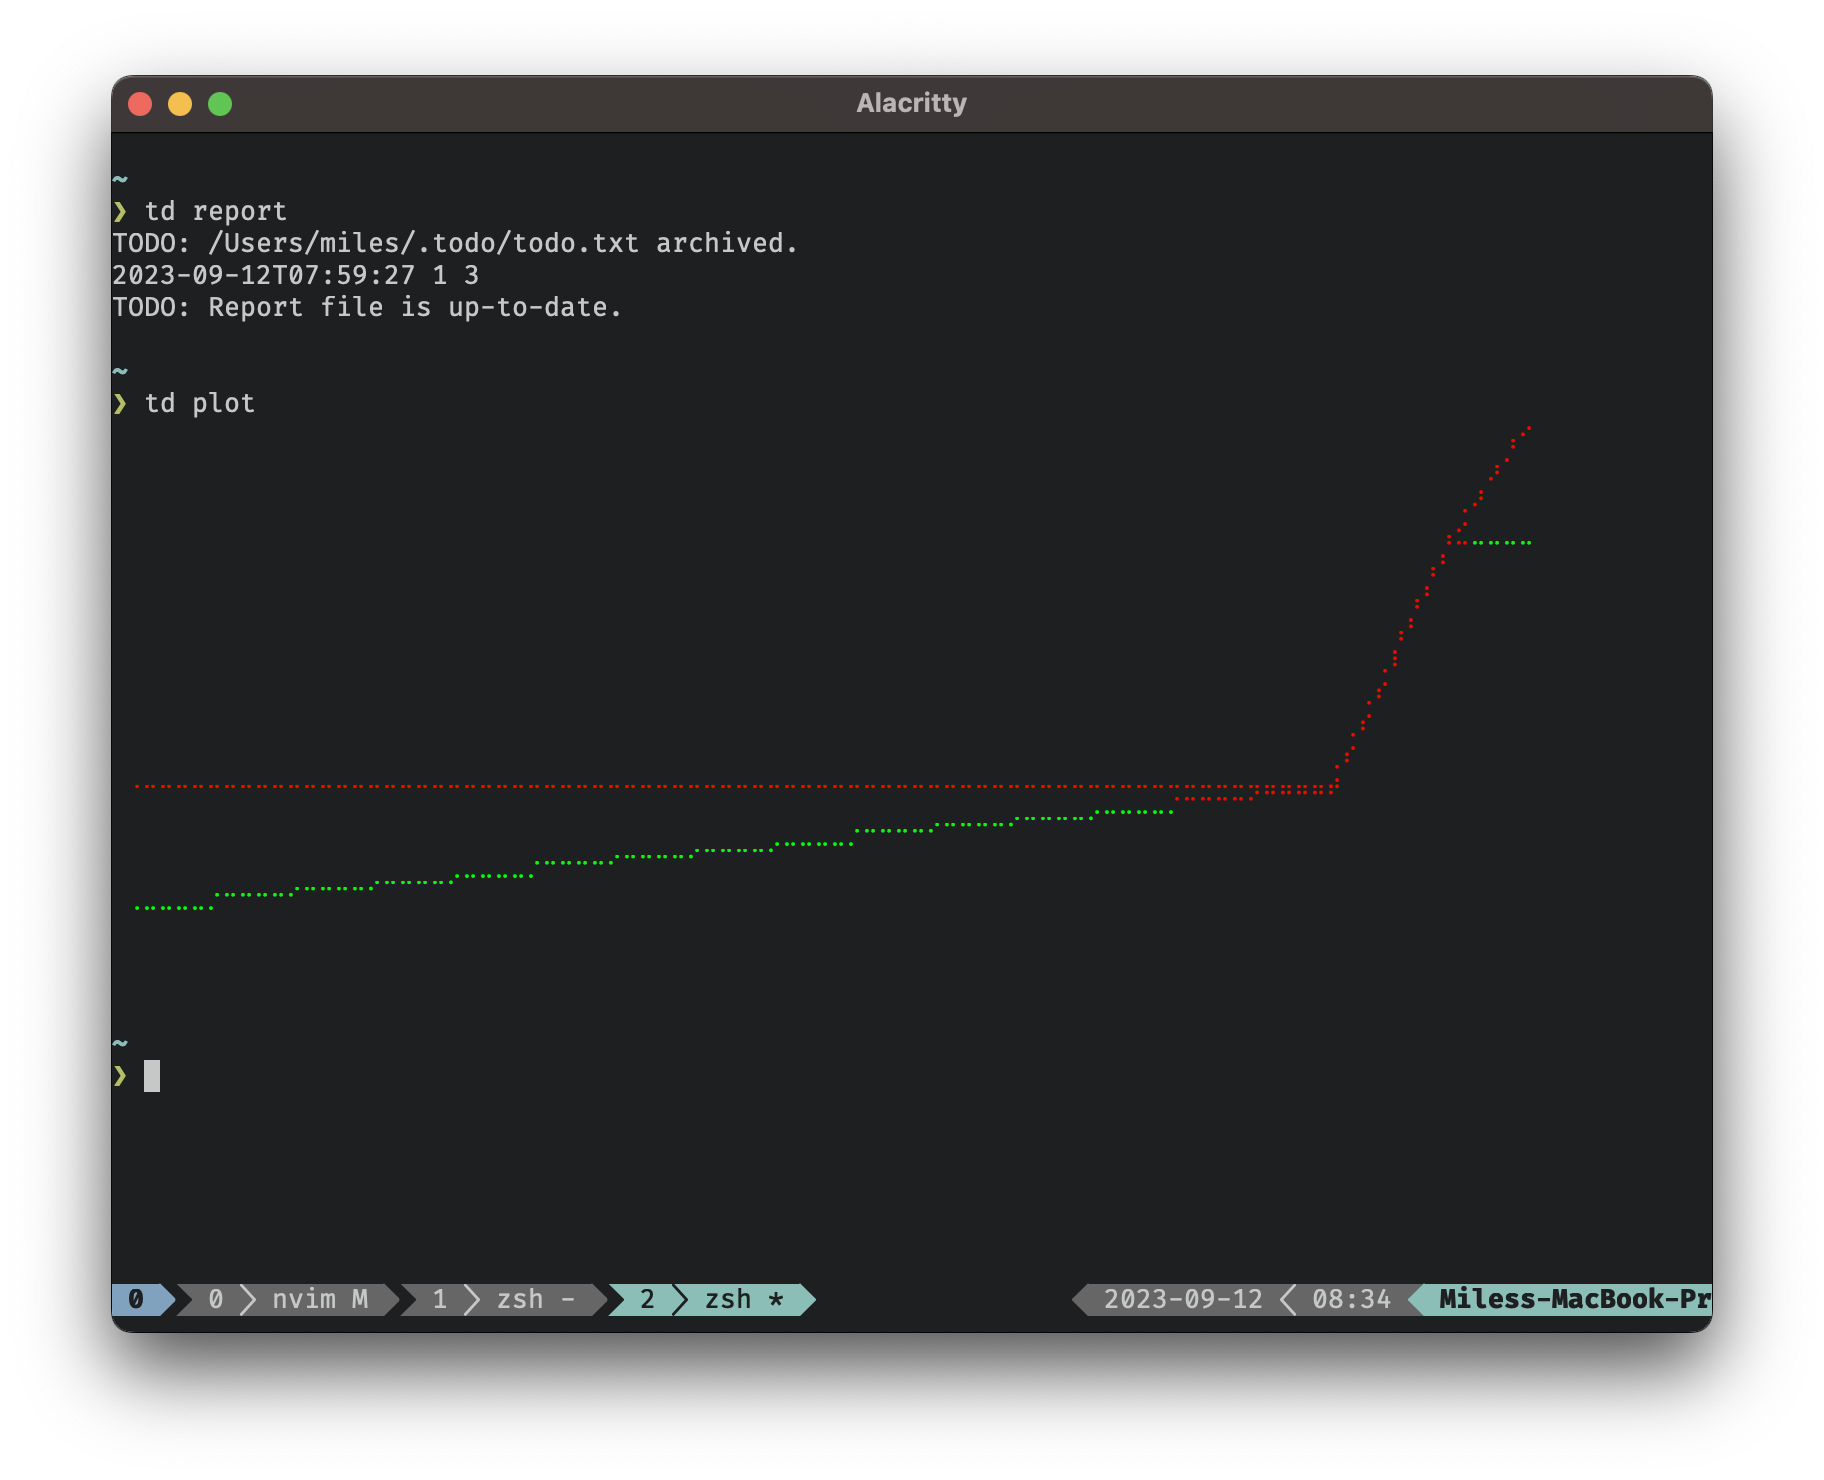
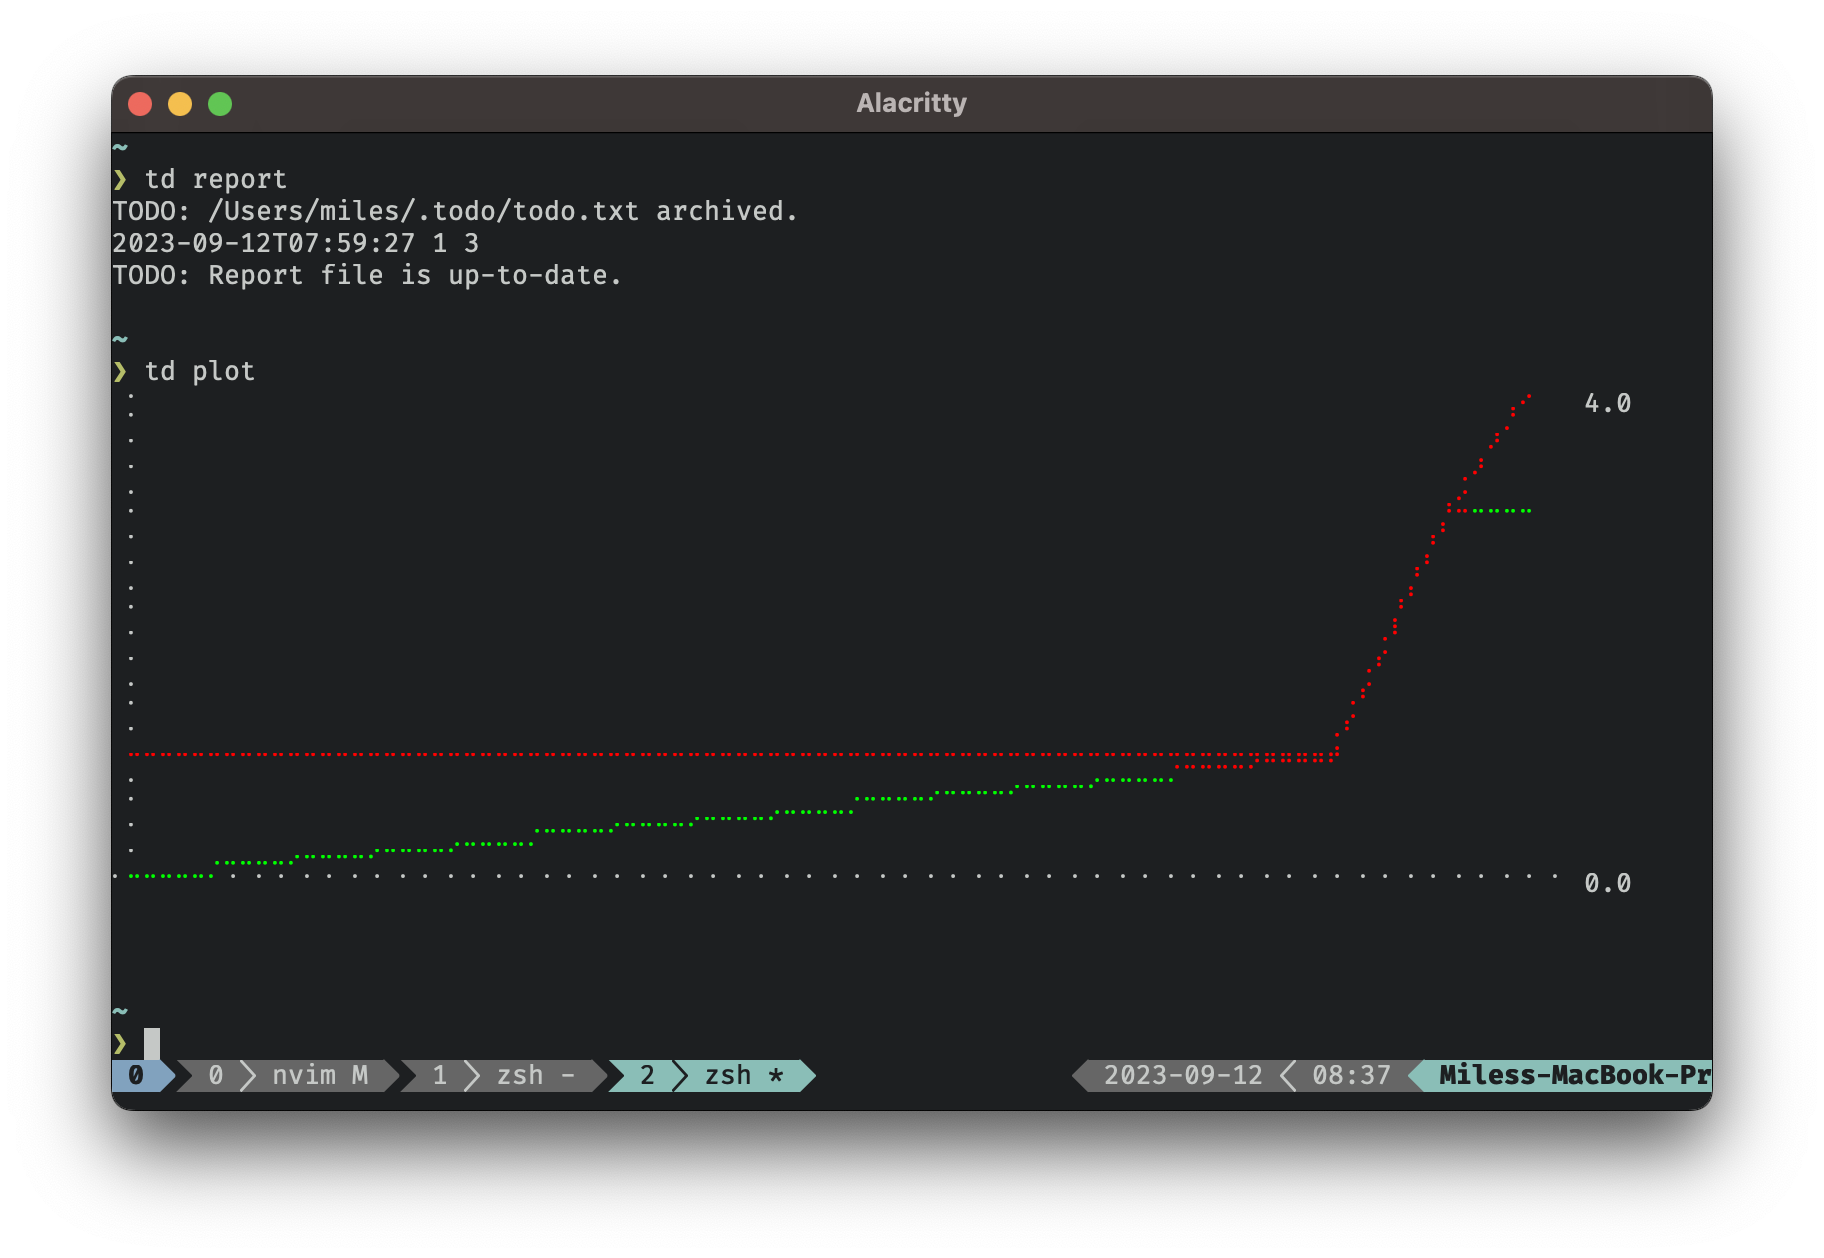
Updating axis style

diff --git a/src/main.rs b/src/main.rs
@@ -70,8 +70,8 @@ fn main() {
     Chart::new(180, 60, -10f32, max + 10f32)
         .linecolorplot(&Shape::Lines(&completed), green)
         .linecolorplot(&Shape::Lines(&open), red)
-        .x_axis_style(LineStyle::None)
-        .y_axis_style(LineStyle::None)
+        // .x_axis_style(LineStyle::None)
+        // .y_axis_style(LineStyle::None)
         .x_label_format(LabelFormat::None)
         // .y_label_format(LabelFormat::None)
         .display();
